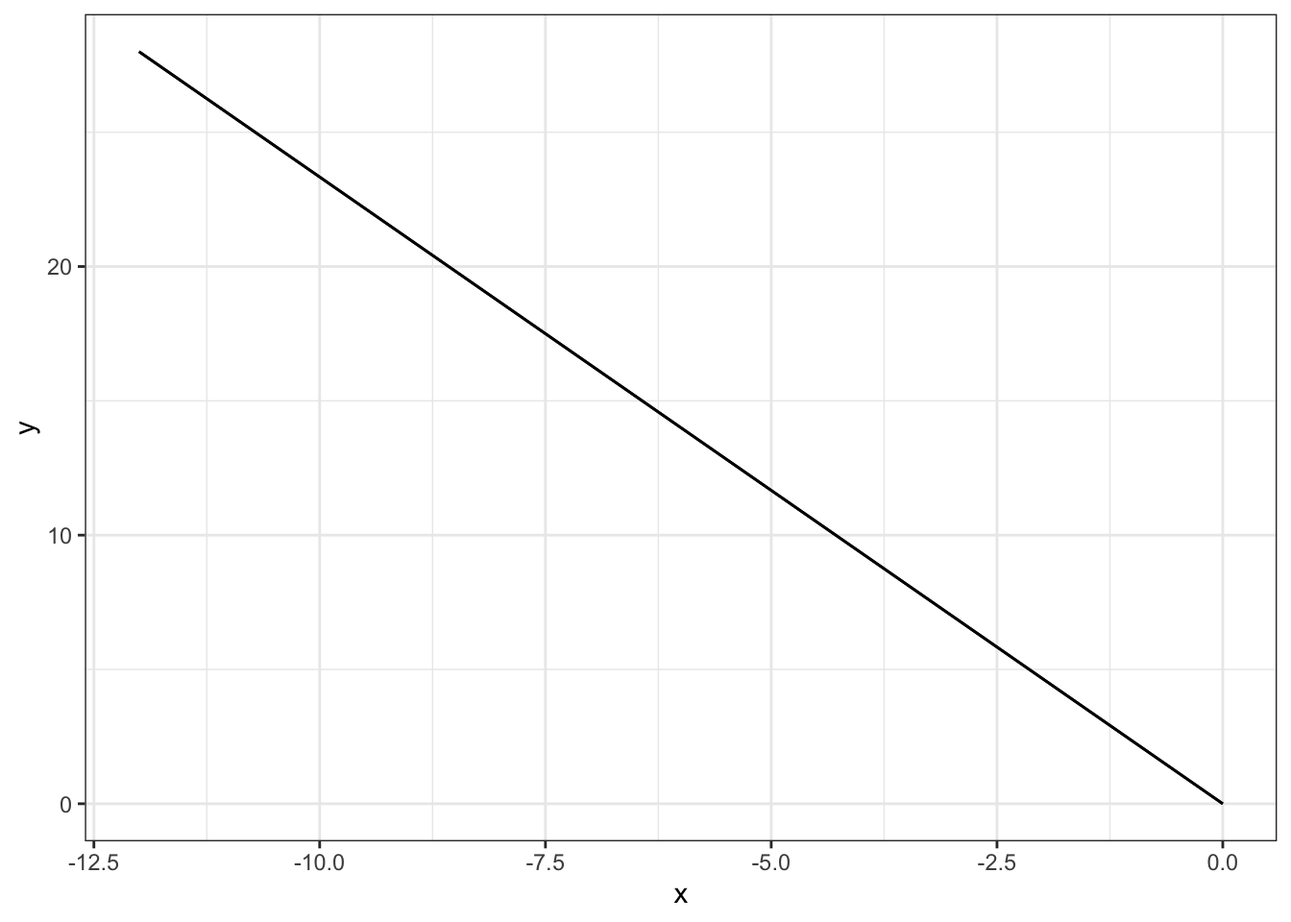
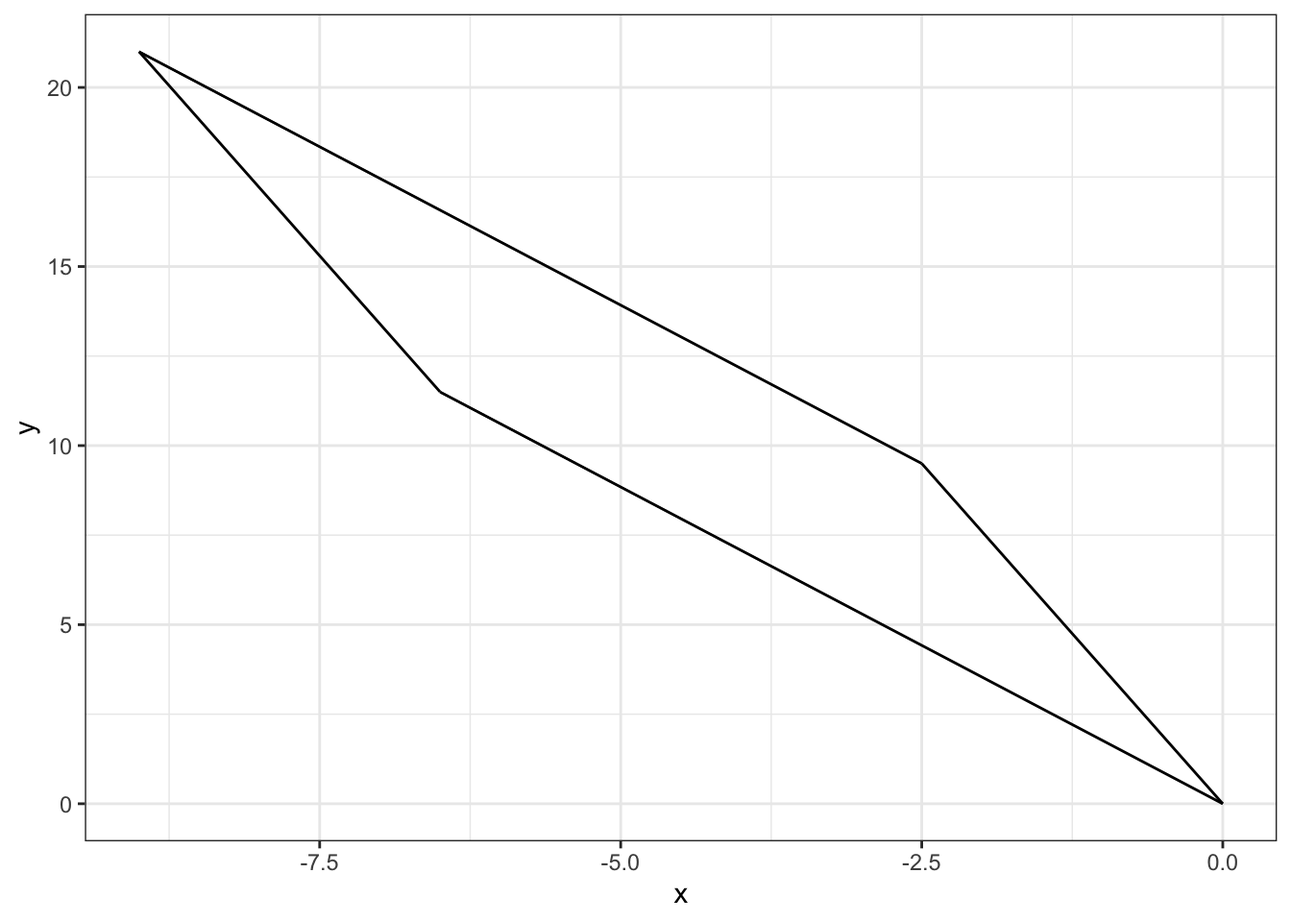
Question 4 done (should have commited more for this one, definitely forgot)

diff --git a/Lab3WriteUp.html b/Lab3WriteUp.html
@@ -760,13 +760,13 @@ Figure&nbsp;3: The unit square transformed into a line.
 <summary>Code</summary>
 <div class="code-copy-outer-scaffold"><div class="sourceCode cell-code" id="cb82"><pre class="sourceCode numberSource r number-lines code-with-copy"><code class="sourceCode r"><span id="cb82-1"><a href="#cb82-1"></a><span class="co"># Create M and calculate T</span></span>
 <span id="cb82-2"><a href="#cb82-2"></a></span>
-<span id="cb82-3"><a href="#cb82-3"></a>M <span class="ot">=</span> <span class="fu">matrix</span>(<span class="at">data =</span> <span class="fu">c</span>(<span class="dv">1</span>,<span class="dv">1</span>,<span class="dv">1</span>,<span class="dv">1</span>), <span class="at">byrow =</span> T, <span class="at">nrow =</span> <span class="dv">2</span>, <span class="at">ncol =</span> <span class="dv">2</span>)</span>
+<span id="cb82-3"><a href="#cb82-3"></a>M <span class="ot">=</span> <span class="fu">matrix</span>(<span class="at">data =</span> <span class="fu">c</span>(<span class="dv">1</span>,<span class="fl">0.5</span>,<span class="fl">0.5</span>,<span class="dv">1</span>), <span class="at">byrow =</span> T, <span class="at">nrow =</span> <span class="dv">2</span>, <span class="at">ncol =</span> <span class="dv">2</span>)</span>
 <span id="cb82-4"><a href="#cb82-4"></a>(<span class="at">T =</span> A <span class="sc">%*%</span> M)</span></code></pre></div><button title="Copy to Clipboard" class="code-copy-button"><i class="bi"></i></button></div>
 </details>
 <div class="cell-output cell-output-stdout">
 <pre><code>     [,1] [,2]
-[1,]   -6   -6
-[2,]   14   14</code></pre>
+[1,] -2.5 -6.5
+[2,]  9.5 11.5</code></pre>
 </div>
 <details class="code-fold">
 <summary>Code</summary>
@@ -774,14 +774,14 @@ Figure&nbsp;3: The unit square transformed into a line.
 <span id="cb84-2"><a href="#cb84-2"></a>(<span class="at">basis.vector.1 =</span> T[,<span class="dv">1</span>])</span></code></pre></div><button title="Copy to Clipboard" class="code-copy-button"><i class="bi"></i></button></div>
 </details>
 <div class="cell-output cell-output-stdout">
-<pre><code>[1] -6 14</code></pre>
+<pre><code>[1] -2.5  9.5</code></pre>
 </div>
 <details class="code-fold">
 <summary>Code</summary>
 <div class="code-copy-outer-scaffold"><div class="sourceCode cell-code" id="cb86"><pre class="sourceCode numberSource r number-lines code-with-copy"><code class="sourceCode r"><span id="cb86-1"><a href="#cb86-1"></a>(<span class="at">basis.vector.2 =</span> T[,<span class="dv">2</span>])</span></code></pre></div><button title="Copy to Clipboard" class="code-copy-button"><i class="bi"></i></button></div>
 </details>
 <div class="cell-output cell-output-stdout">
-<pre><code>[1] -6 14</code></pre>
+<pre><code>[1] -6.5 11.5</code></pre>
 </div>
 <details class="code-fold">
 <summary>Code</summary>
@@ -812,21 +812,21 @@ Figure&nbsp;3: The unit square transformed into a line.
 <div class="code-copy-outer-scaffold"><div class="sourceCode cell-code" id="cb90"><pre class="sourceCode numberSource r number-lines code-with-copy"><code class="sourceCode r"><span id="cb90-1"><a href="#cb90-1"></a>p1</span></code></pre></div><button title="Copy to Clipboard" class="code-copy-button"><i class="bi"></i></button></div>
 </details>
 <div class="cell-output cell-output-stdout">
-<pre><code>[1] -6 14</code></pre>
+<pre><code>[1] -2.5  9.5</code></pre>
 </div>
 <details class="code-fold">
 <summary>Code</summary>
 <div class="code-copy-outer-scaffold"><div class="sourceCode cell-code" id="cb92"><pre class="sourceCode numberSource r number-lines code-with-copy"><code class="sourceCode r"><span id="cb92-1"><a href="#cb92-1"></a>p2</span></code></pre></div><button title="Copy to Clipboard" class="code-copy-button"><i class="bi"></i></button></div>
 </details>
 <div class="cell-output cell-output-stdout">
-<pre><code>[1] -12  28</code></pre>
+<pre><code>[1] -9 21</code></pre>
 </div>
 <details class="code-fold">
 <summary>Code</summary>
 <div class="code-copy-outer-scaffold"><div class="sourceCode cell-code" id="cb94"><pre class="sourceCode numberSource r number-lines code-with-copy"><code class="sourceCode r"><span id="cb94-1"><a href="#cb94-1"></a>p3</span></code></pre></div><button title="Copy to Clipboard" class="code-copy-button"><i class="bi"></i></button></div>
 </details>
 <div class="cell-output cell-output-stdout">
-<pre><code>[1] -6 14</code></pre>
+<pre><code>[1] -6.5 11.5</code></pre>
 </div>
 <details class="code-fold">
 <summary>Code</summary>
@@ -858,7 +858,7 @@ Figure&nbsp;3: The unit square transformed into a line.
 </div>
 </div>
 <p></p>
-<p>The determinant (and hence the area) is the same for all three shapes. This shape is more distorted, and seems to approach a “flipped” version of the diagonal line in part 1e. I believe that if we increase both k-values (maybe as they approach 1?), the shape will approach a diagonal line.</p>
+<p>The determinant (and hence the area) is the same for all three shapes. This shape is more distorted, and seems to approach a “flipped” version of the diagonal line in part 1e. I believe that if we increase both k-values (maybe as they approach 1?), the shape will approach a diagonal line. (I tested this and it is true!)</p>
 </section>
 </section>
 <section id="question-4" class="level1" data-number="4">
@@ -968,39 +968,136 @@ Figure&nbsp;3: The unit square transformed into a line.
 </tr>
 </tbody>
 </table>
+<p><strong>Solution</strong></p>
+<p></p>
+<div class="cell">
+<details class="code-fold">
+<summary>Code</summary>
+<div class="code-copy-outer-scaffold"><div class="sourceCode cell-code" id="cb99"><pre class="sourceCode numberSource r number-lines code-with-copy"><code class="sourceCode r"><span id="cb99-1"><a href="#cb99-1"></a><span class="co"># Create column vectors</span></span>
+<span id="cb99-2"><a href="#cb99-2"></a></span>
+<span id="cb99-3"><a href="#cb99-3"></a>x <span class="ot">=</span> <span class="fu">c</span>(<span class="dv">0</span>,<span class="dv">0</span>,<span class="dv">1</span>,<span class="dv">1</span>,<span class="dv">0</span>,<span class="dv">1</span>,<span class="dv">0</span>,<span class="dv">1</span>,<span class="dv">0</span>,<span class="dv">1</span>,<span class="dv">0</span>,<span class="dv">1</span>,<span class="dv">0</span>,<span class="dv">1</span>,<span class="dv">0</span>,<span class="dv">1</span>,<span class="dv">0</span>,<span class="dv">1</span>,<span class="dv">0</span>,<span class="dv">1</span>,<span class="dv">0</span>,<span class="dv">1</span>)</span>
+<span id="cb99-4"><a href="#cb99-4"></a>y <span class="ot">=</span> <span class="fu">c</span>(<span class="dv">0</span>,<span class="dv">20</span>,<span class="dv">0</span>,<span class="dv">20</span>,<span class="dv">2</span>,<span class="dv">2</span>,<span class="dv">4</span>,<span class="dv">4</span>,<span class="dv">6</span>,<span class="dv">6</span>,<span class="dv">8</span>,<span class="dv">8</span>,<span class="dv">10</span>,<span class="dv">10</span>,<span class="dv">12</span>,<span class="dv">12</span>,<span class="dv">14</span>,<span class="dv">14</span>,<span class="dv">16</span>,<span class="dv">16</span>,<span class="dv">18</span>,<span class="dv">18</span>)</span>
+<span id="cb99-5"><a href="#cb99-5"></a>group <span class="ot">=</span> <span class="fu">rep</span>(<span class="fu">c</span>(<span class="dv">1</span>,<span class="dv">2</span>,<span class="dv">3</span>,<span class="dv">4</span>,<span class="dv">5</span>,<span class="dv">6</span>,<span class="dv">7</span>,<span class="dv">8</span>,<span class="dv">9</span>,<span class="dv">10</span>,<span class="dv">11</span>), <span class="at">each =</span> <span class="dv">2</span>)</span>
+<span id="cb99-6"><a href="#cb99-6"></a></span>
+<span id="cb99-7"><a href="#cb99-7"></a><span class="co"># Create data frame</span></span>
+<span id="cb99-8"><a href="#cb99-8"></a></span>
+<span id="cb99-9"><a href="#cb99-9"></a>(<span class="at">ladder =</span> <span class="fu">data.frame</span>(x,y,group))</span></code></pre></div><button title="Copy to Clipboard" class="code-copy-button"><i class="bi"></i></button></div>
+</details>
+<div class="cell-output cell-output-stdout">
+<pre><code>   x  y group
+1  0  0     1
+2  0 20     1
+3  1  0     2
+4  1 20     2
+5  0  2     3
+6  1  2     3
+7  0  4     4
+8  1  4     4
+9  0  6     5
+10 1  6     5
+11 0  8     6
+12 1  8     6
+13 0 10     7
+14 1 10     7
+15 0 12     8
+16 1 12     8
+17 0 14     9
+18 1 14     9
+19 0 16    10
+20 1 16    10
+21 0 18    11
+22 1 18    11</code></pre>
+</div>
+</div>
+<p></p>
 </section>
 <section id="part-b-3" class="level2" data-number="4.2">
 <h2 data-number="4.2" class="anchored" data-anchor-id="part-b-3"><span class="header-section-number">4.2</span> Part b</h2>
 <p>Remove <code>#|eval: false</code> in the code below. The result should look like a ladder and a very rectangular house if part a is correct.</p>
+<p><strong>Solution</strong></p>
 <p></p>
 <div class="cell" data-layout-align="center" data-scale="80%">
 <details class="code-fold">
 <summary>Code</summary>
-<div class="code-copy-outer-scaffold"><div class="sourceCode cell-code" id="cb99"><pre class="sourceCode numberSource r number-lines code-with-copy"><code class="sourceCode r"><span id="cb99-1"><a href="#cb99-1"></a><span class="fu">ggplot</span>() <span class="sc">+</span></span>
-<span id="cb99-2"><a href="#cb99-2"></a>  <span class="fu">geom_path</span>(<span class="at">data =</span> ladder, </span>
-<span id="cb99-3"><a href="#cb99-3"></a>              <span class="fu">aes</span>(<span class="at">x =</span> x, <span class="at">y =</span> y, <span class="at">group =</span> group)) <span class="sc">+</span></span>
-<span id="cb99-4"><a href="#cb99-4"></a>                  <span class="fu">geom_segment</span>(<span class="fu">aes</span>(<span class="at">x =</span> <span class="dv">10</span>, <span class="at">xend =</span> <span class="dv">10</span>,</span>
-<span id="cb99-5"><a href="#cb99-5"></a>                   <span class="at">y=</span><span class="dv">0</span>, <span class="at">yend =</span> <span class="dv">20</span>))<span class="sc">+</span></span>
-<span id="cb99-6"><a href="#cb99-6"></a>  <span class="fu">geom_segment</span>(<span class="fu">aes</span>(<span class="at">x =</span> <span class="dv">10</span>, <span class="at">xend =</span> <span class="dv">20</span>,</span>
-<span id="cb99-7"><a href="#cb99-7"></a>                   <span class="at">y=</span><span class="dv">20</span>, <span class="at">yend =</span> <span class="dv">20</span>))<span class="sc">+</span></span>
-<span id="cb99-8"><a href="#cb99-8"></a>  <span class="fu">geom_segment</span>(<span class="fu">aes</span>(<span class="at">x =</span> <span class="dv">20</span>, <span class="at">xend =</span> <span class="dv">20</span>,</span>
-<span id="cb99-9"><a href="#cb99-9"></a>                   <span class="at">y=</span><span class="dv">0</span>, <span class="at">yend =</span> <span class="dv">20</span>))<span class="sc">+</span></span>
-<span id="cb99-10"><a href="#cb99-10"></a>  <span class="fu">geom_segment</span>(<span class="fu">aes</span>(<span class="at">x =</span> <span class="dv">10</span>, <span class="at">xend =</span> <span class="dv">20</span>,</span>
-<span id="cb99-11"><a href="#cb99-11"></a>                   <span class="at">y=</span><span class="dv">0</span>, <span class="at">yend =</span> <span class="dv">0</span>)) <span class="sc">+</span></span>
-<span id="cb99-12"><a href="#cb99-12"></a>  <span class="fu">theme_bw</span>() <span class="sc">+</span></span>
-<span id="cb99-13"><a href="#cb99-13"></a>  <span class="fu">xlim</span>(<span class="sc">-</span><span class="dv">2</span>,<span class="dv">22</span>) <span class="sc">+</span></span>
-<span id="cb99-14"><a href="#cb99-14"></a>  <span class="fu">ylim</span>(<span class="sc">-</span><span class="dv">2</span>,<span class="dv">22</span>)</span></code></pre></div><button title="Copy to Clipboard" class="code-copy-button"><i class="bi"></i></button></div>
+<div class="code-copy-outer-scaffold"><div class="sourceCode cell-code" id="cb101"><pre class="sourceCode numberSource r number-lines code-with-copy"><code class="sourceCode r"><span id="cb101-1"><a href="#cb101-1"></a><span class="fu">ggplot</span>() <span class="sc">+</span></span>
+<span id="cb101-2"><a href="#cb101-2"></a>  <span class="fu">geom_path</span>(<span class="at">data =</span> ladder, </span>
+<span id="cb101-3"><a href="#cb101-3"></a>              <span class="fu">aes</span>(<span class="at">x =</span> x, <span class="at">y =</span> y, <span class="at">group =</span> group)) <span class="sc">+</span></span>
+<span id="cb101-4"><a href="#cb101-4"></a>                  <span class="fu">geom_segment</span>(<span class="fu">aes</span>(<span class="at">x =</span> <span class="dv">10</span>, <span class="at">xend =</span> <span class="dv">10</span>,</span>
+<span id="cb101-5"><a href="#cb101-5"></a>                   <span class="at">y=</span><span class="dv">0</span>, <span class="at">yend =</span> <span class="dv">20</span>))<span class="sc">+</span></span>
+<span id="cb101-6"><a href="#cb101-6"></a>  <span class="fu">geom_segment</span>(<span class="fu">aes</span>(<span class="at">x =</span> <span class="dv">10</span>, <span class="at">xend =</span> <span class="dv">20</span>,</span>
+<span id="cb101-7"><a href="#cb101-7"></a>                   <span class="at">y=</span><span class="dv">20</span>, <span class="at">yend =</span> <span class="dv">20</span>))<span class="sc">+</span></span>
+<span id="cb101-8"><a href="#cb101-8"></a>  <span class="fu">geom_segment</span>(<span class="fu">aes</span>(<span class="at">x =</span> <span class="dv">20</span>, <span class="at">xend =</span> <span class="dv">20</span>,</span>
+<span id="cb101-9"><a href="#cb101-9"></a>                   <span class="at">y=</span><span class="dv">0</span>, <span class="at">yend =</span> <span class="dv">20</span>))<span class="sc">+</span></span>
+<span id="cb101-10"><a href="#cb101-10"></a>  <span class="fu">geom_segment</span>(<span class="fu">aes</span>(<span class="at">x =</span> <span class="dv">10</span>, <span class="at">xend =</span> <span class="dv">20</span>,</span>
+<span id="cb101-11"><a href="#cb101-11"></a>                   <span class="at">y=</span><span class="dv">0</span>, <span class="at">yend =</span> <span class="dv">0</span>)) <span class="sc">+</span></span>
+<span id="cb101-12"><a href="#cb101-12"></a>  <span class="fu">theme_bw</span>() <span class="sc">+</span></span>
+<span id="cb101-13"><a href="#cb101-13"></a>  <span class="fu">xlim</span>(<span class="sc">-</span><span class="dv">2</span>,<span class="dv">22</span>) <span class="sc">+</span></span>
+<span id="cb101-14"><a href="#cb101-14"></a>  <span class="fu">ylim</span>(<span class="sc">-</span><span class="dv">2</span>,<span class="dv">22</span>)</span></code></pre></div><button title="Copy to Clipboard" class="code-copy-button"><i class="bi"></i></button></div>
 </details>
+<div class="cell-output-display">
+<div id="fig-ladder" class="quarto-float quarto-figure quarto-figure-center anchored" data-fig-align="center">
+<figure class="quarto-float quarto-float-fig figure">
+<figcaption class="quarto-float-caption-top quarto-float-caption quarto-float-fig" id="fig-ladder-caption-0ceaefa1-69ba-4598-a22c-09a6ac19f8ca">
+Figure&nbsp;4: A ladder.
+</figcaption>
+<div aria-describedby="fig-ladder-caption-0ceaefa1-69ba-4598-a22c-09a6ac19f8ca">
+<img src="Lab3WriteUp_files/figure-html/fig-ladder-1.png" class="img-fluid quarto-figure quarto-figure-center figure-img" width="288">
+</div>
+</figure>
+</div>
+</div>
 </div>
 <p></p>
 </section>
 <section id="part-c-3" class="level2" data-number="4.3">
 <h2 data-number="4.3" class="anchored" data-anchor-id="part-c-3"><span class="header-section-number">4.3</span> Part c</h2>
 <p>Use <code>as.matrix()</code> to create a <span class="math inline">\(22 \times 2\)</span> matrix <span class="math inline">\(\mathbf{A}\)</span> containing the <code>x</code> and <code>y</code> observations from the <code>ladder</code> data frame. Use matrix multiplication to compute <span class="math display">\[\mathbf{T} = \mathbf{A} \mathbf{M}_h.\]</span> Recall, <span class="math display">\[\mathbf{M}_h = \begin{bmatrix} 1 &amp; 0 \\ k &amp; 1 \end{bmatrix}\]</span> and use <span class="math inline">\(k=0.5.\)</span></p>
+<p><strong>Solution</strong></p>
+<p></p>
+<div class="cell">
+<details class="code-fold">
+<summary>Code</summary>
+<div class="code-copy-outer-scaffold"><div class="sourceCode cell-code" id="cb102"><pre class="sourceCode numberSource r number-lines code-with-copy"><code class="sourceCode r"><span id="cb102-1"><a href="#cb102-1"></a>A <span class="ot">=</span> <span class="fu">as.matrix</span>(ladder[,<span class="fu">c</span>(<span class="st">"x"</span>,<span class="st">"y"</span>)])</span>
+<span id="cb102-2"><a href="#cb102-2"></a>M <span class="ot">=</span> <span class="fu">matrix</span>(<span class="at">data =</span> <span class="fu">c</span>(<span class="dv">1</span>,<span class="dv">0</span>,<span class="fl">0.5</span>,<span class="dv">1</span>), <span class="at">byrow =</span> T, <span class="at">nrow =</span> <span class="dv">2</span>, <span class="at">ncol =</span> <span class="dv">2</span>)</span>
+<span id="cb102-3"><a href="#cb102-3"></a>T <span class="ot">=</span> A <span class="sc">%*%</span> M</span>
+<span id="cb102-4"><a href="#cb102-4"></a><span class="fu">head</span>(T)</span></code></pre></div><button title="Copy to Clipboard" class="code-copy-button"><i class="bi"></i></button></div>
+</details>
+<div class="cell-output cell-output-stdout">
+<pre><code>     [,1] [,2]
+[1,]    0    0
+[2,]   10   20
+[3,]    1    0
+[4,]   11   20
+[5,]    1    2
+[6,]    2    2</code></pre>
+</div>
+</div>
+<p></p>
 </section>
 <section id="part-d-2" class="level2" data-number="4.4">
 <h2 data-number="4.4" class="anchored" data-anchor-id="part-d-2"><span class="header-section-number">4.4</span> Part d</h2>
 <p>Create a data frame <code>leaning.ladder</code> with the <code>x</code> and <code>y</code> equal to the first and second column of <span class="math inline">\(\mathbf{T}\)</span>, respectively, and the same values of <code>group</code> from <code>ladder</code>.</p>
+<p><strong>Solution</strong></p>
+<p></p>
+<div class="cell">
+<details class="code-fold">
+<summary>Code</summary>
+<div class="code-copy-outer-scaffold"><div class="sourceCode cell-code" id="cb104"><pre class="sourceCode numberSource r number-lines code-with-copy"><code class="sourceCode r"><span id="cb104-1"><a href="#cb104-1"></a>x <span class="ot">=</span> T[,<span class="dv">1</span>]</span>
+<span id="cb104-2"><a href="#cb104-2"></a>y <span class="ot">=</span> T[,<span class="dv">2</span>]</span>
+<span id="cb104-3"><a href="#cb104-3"></a>leaning.ladder <span class="ot">=</span> <span class="fu">data.frame</span>(x,y,group)</span>
+<span id="cb104-4"><a href="#cb104-4"></a><span class="fu">head</span>(leaning.ladder)</span></code></pre></div><button title="Copy to Clipboard" class="code-copy-button"><i class="bi"></i></button></div>
+</details>
+<div class="cell-output cell-output-stdout">
+<pre><code>   x  y group
+1  0  0     1
+2 10 20     1
+3  1  0     2
+4 11 20     2
+5  1  2     3
+6  2  2     3</code></pre>
+</div>
+</div>
+<p></p>
 </section>
 <section id="part-e-2" class="level2" data-number="4.5">
 <h2 data-number="4.5" class="anchored" data-anchor-id="part-e-2"><span class="header-section-number">4.5</span> Part e</h2>
@@ -1009,24 +1106,36 @@ Figure&nbsp;3: The unit square transformed into a line.
 <div class="cell" data-layout-align="center" data-scale="80%">
 <details class="code-fold">
 <summary>Code</summary>
-<div class="code-copy-outer-scaffold"><div class="sourceCode cell-code" id="cb100"><pre class="sourceCode numberSource r number-lines code-with-copy"><code class="sourceCode r"><span id="cb100-1"><a href="#cb100-1"></a><span class="fu">ggplot</span>() <span class="sc">+</span></span>
-<span id="cb100-2"><a href="#cb100-2"></a>  <span class="fu">geom_path</span>(<span class="at">data =</span> ladder, </span>
-<span id="cb100-3"><a href="#cb100-3"></a>              <span class="fu">aes</span>(<span class="at">x =</span> x, <span class="at">y =</span> y, <span class="at">group =</span> group, <span class="at">color =</span> <span class="st">"Starting Ladder"</span>)) <span class="sc">+</span></span>
-<span id="cb100-4"><a href="#cb100-4"></a>  <span class="fu">geom_path</span>(<span class="at">data =</span> leaning.ladder, </span>
-<span id="cb100-5"><a href="#cb100-5"></a>              <span class="fu">aes</span>(<span class="at">x =</span> x, <span class="at">y =</span> y, <span class="at">group =</span> group, <span class="at">color =</span> <span class="st">"Leaning Ladder"</span>)) <span class="sc">+</span></span>
-<span id="cb100-6"><a href="#cb100-6"></a>  <span class="fu">geom_segment</span>(<span class="fu">aes</span>(<span class="at">x =</span> <span class="dv">10</span>, <span class="at">xend =</span> <span class="dv">10</span>,</span>
-<span id="cb100-7"><a href="#cb100-7"></a>                   <span class="at">y=</span><span class="dv">0</span>, <span class="at">yend =</span> <span class="dv">20</span>))<span class="sc">+</span></span>
-<span id="cb100-8"><a href="#cb100-8"></a>  <span class="fu">geom_segment</span>(<span class="fu">aes</span>(<span class="at">x =</span> <span class="dv">10</span>, <span class="at">xend =</span> <span class="dv">20</span>,</span>
-<span id="cb100-9"><a href="#cb100-9"></a>                   <span class="at">y=</span><span class="dv">20</span>, <span class="at">yend =</span> <span class="dv">20</span>))<span class="sc">+</span></span>
-<span id="cb100-10"><a href="#cb100-10"></a>  <span class="fu">geom_segment</span>(<span class="fu">aes</span>(<span class="at">x =</span> <span class="dv">20</span>, <span class="at">xend =</span> <span class="dv">20</span>,</span>
-<span id="cb100-11"><a href="#cb100-11"></a>                   <span class="at">y=</span><span class="dv">0</span>, <span class="at">yend =</span> <span class="dv">20</span>))<span class="sc">+</span></span>
-<span id="cb100-12"><a href="#cb100-12"></a>  <span class="fu">geom_segment</span>(<span class="fu">aes</span>(<span class="at">x =</span> <span class="dv">10</span>, <span class="at">xend =</span> <span class="dv">20</span>,</span>
-<span id="cb100-13"><a href="#cb100-13"></a>                   <span class="at">y=</span><span class="dv">0</span>, <span class="at">yend =</span> <span class="dv">0</span>)) <span class="sc">+</span></span>
-<span id="cb100-14"><a href="#cb100-14"></a>  <span class="fu">theme_bw</span>() <span class="sc">+</span></span>
-<span id="cb100-15"><a href="#cb100-15"></a>  <span class="fu">xlim</span>(<span class="sc">-</span><span class="dv">2</span>,<span class="dv">22</span>) <span class="sc">+</span></span>
-<span id="cb100-16"><a href="#cb100-16"></a>  <span class="fu">ylim</span>(<span class="sc">-</span><span class="dv">2</span>,<span class="dv">22</span>) <span class="sc">+</span></span>
-<span id="cb100-17"><a href="#cb100-17"></a>  <span class="fu">scale_color_manual</span>(<span class="st">""</span>, <span class="at">values=</span><span class="fu">c</span>(<span class="st">"darkred"</span>, <span class="st">"grey"</span>))</span></code></pre></div><button title="Copy to Clipboard" class="code-copy-button"><i class="bi"></i></button></div>
+<div class="code-copy-outer-scaffold"><div class="sourceCode cell-code" id="cb106"><pre class="sourceCode numberSource r number-lines code-with-copy"><code class="sourceCode r"><span id="cb106-1"><a href="#cb106-1"></a><span class="fu">ggplot</span>() <span class="sc">+</span></span>
+<span id="cb106-2"><a href="#cb106-2"></a>  <span class="fu">geom_path</span>(<span class="at">data =</span> ladder, </span>
+<span id="cb106-3"><a href="#cb106-3"></a>              <span class="fu">aes</span>(<span class="at">x =</span> x, <span class="at">y =</span> y, <span class="at">group =</span> group, <span class="at">color =</span> <span class="st">"Starting Ladder"</span>)) <span class="sc">+</span></span>
+<span id="cb106-4"><a href="#cb106-4"></a>  <span class="fu">geom_path</span>(<span class="at">data =</span> leaning.ladder, </span>
+<span id="cb106-5"><a href="#cb106-5"></a>              <span class="fu">aes</span>(<span class="at">x =</span> x, <span class="at">y =</span> y, <span class="at">group =</span> group, <span class="at">color =</span> <span class="st">"Leaning Ladder"</span>)) <span class="sc">+</span></span>
+<span id="cb106-6"><a href="#cb106-6"></a>  <span class="fu">geom_segment</span>(<span class="fu">aes</span>(<span class="at">x =</span> <span class="dv">10</span>, <span class="at">xend =</span> <span class="dv">10</span>,</span>
+<span id="cb106-7"><a href="#cb106-7"></a>                   <span class="at">y=</span><span class="dv">0</span>, <span class="at">yend =</span> <span class="dv">20</span>))<span class="sc">+</span></span>
+<span id="cb106-8"><a href="#cb106-8"></a>  <span class="fu">geom_segment</span>(<span class="fu">aes</span>(<span class="at">x =</span> <span class="dv">10</span>, <span class="at">xend =</span> <span class="dv">20</span>,</span>
+<span id="cb106-9"><a href="#cb106-9"></a>                   <span class="at">y=</span><span class="dv">20</span>, <span class="at">yend =</span> <span class="dv">20</span>))<span class="sc">+</span></span>
+<span id="cb106-10"><a href="#cb106-10"></a>  <span class="fu">geom_segment</span>(<span class="fu">aes</span>(<span class="at">x =</span> <span class="dv">20</span>, <span class="at">xend =</span> <span class="dv">20</span>,</span>
+<span id="cb106-11"><a href="#cb106-11"></a>                   <span class="at">y=</span><span class="dv">0</span>, <span class="at">yend =</span> <span class="dv">20</span>))<span class="sc">+</span></span>
+<span id="cb106-12"><a href="#cb106-12"></a>  <span class="fu">geom_segment</span>(<span class="fu">aes</span>(<span class="at">x =</span> <span class="dv">10</span>, <span class="at">xend =</span> <span class="dv">20</span>,</span>
+<span id="cb106-13"><a href="#cb106-13"></a>                   <span class="at">y=</span><span class="dv">0</span>, <span class="at">yend =</span> <span class="dv">0</span>)) <span class="sc">+</span></span>
+<span id="cb106-14"><a href="#cb106-14"></a>  <span class="fu">theme_bw</span>() <span class="sc">+</span></span>
+<span id="cb106-15"><a href="#cb106-15"></a>  <span class="fu">xlim</span>(<span class="sc">-</span><span class="dv">2</span>,<span class="dv">22</span>) <span class="sc">+</span></span>
+<span id="cb106-16"><a href="#cb106-16"></a>  <span class="fu">ylim</span>(<span class="sc">-</span><span class="dv">2</span>,<span class="dv">22</span>) <span class="sc">+</span></span>
+<span id="cb106-17"><a href="#cb106-17"></a>  <span class="fu">scale_color_manual</span>(<span class="st">""</span>, <span class="at">values=</span><span class="fu">c</span>(<span class="st">"darkred"</span>, <span class="st">"grey"</span>))</span></code></pre></div><button title="Copy to Clipboard" class="code-copy-button"><i class="bi"></i></button></div>
 </details>
+<div class="cell-output-display">
+<div id="fig-ladder2" class="quarto-float quarto-figure quarto-figure-center anchored" data-fig-align="center">
+<figure class="quarto-float quarto-float-fig figure">
+<figcaption class="quarto-float-caption-top quarto-float-caption quarto-float-fig" id="fig-ladder2-caption-0ceaefa1-69ba-4598-a22c-09a6ac19f8ca">
+Figure&nbsp;5: A ladder and a leaning ladder.
+</figcaption>
+<div aria-describedby="fig-ladder2-caption-0ceaefa1-69ba-4598-a22c-09a6ac19f8ca">
+<img src="Lab3WriteUp_files/figure-html/fig-ladder2-1.png" class="img-fluid quarto-figure quarto-figure-center figure-img" width="288">
+</div>
+</figure>
+</div>
+</div>
 </div>
 <p></p>
 </section>
